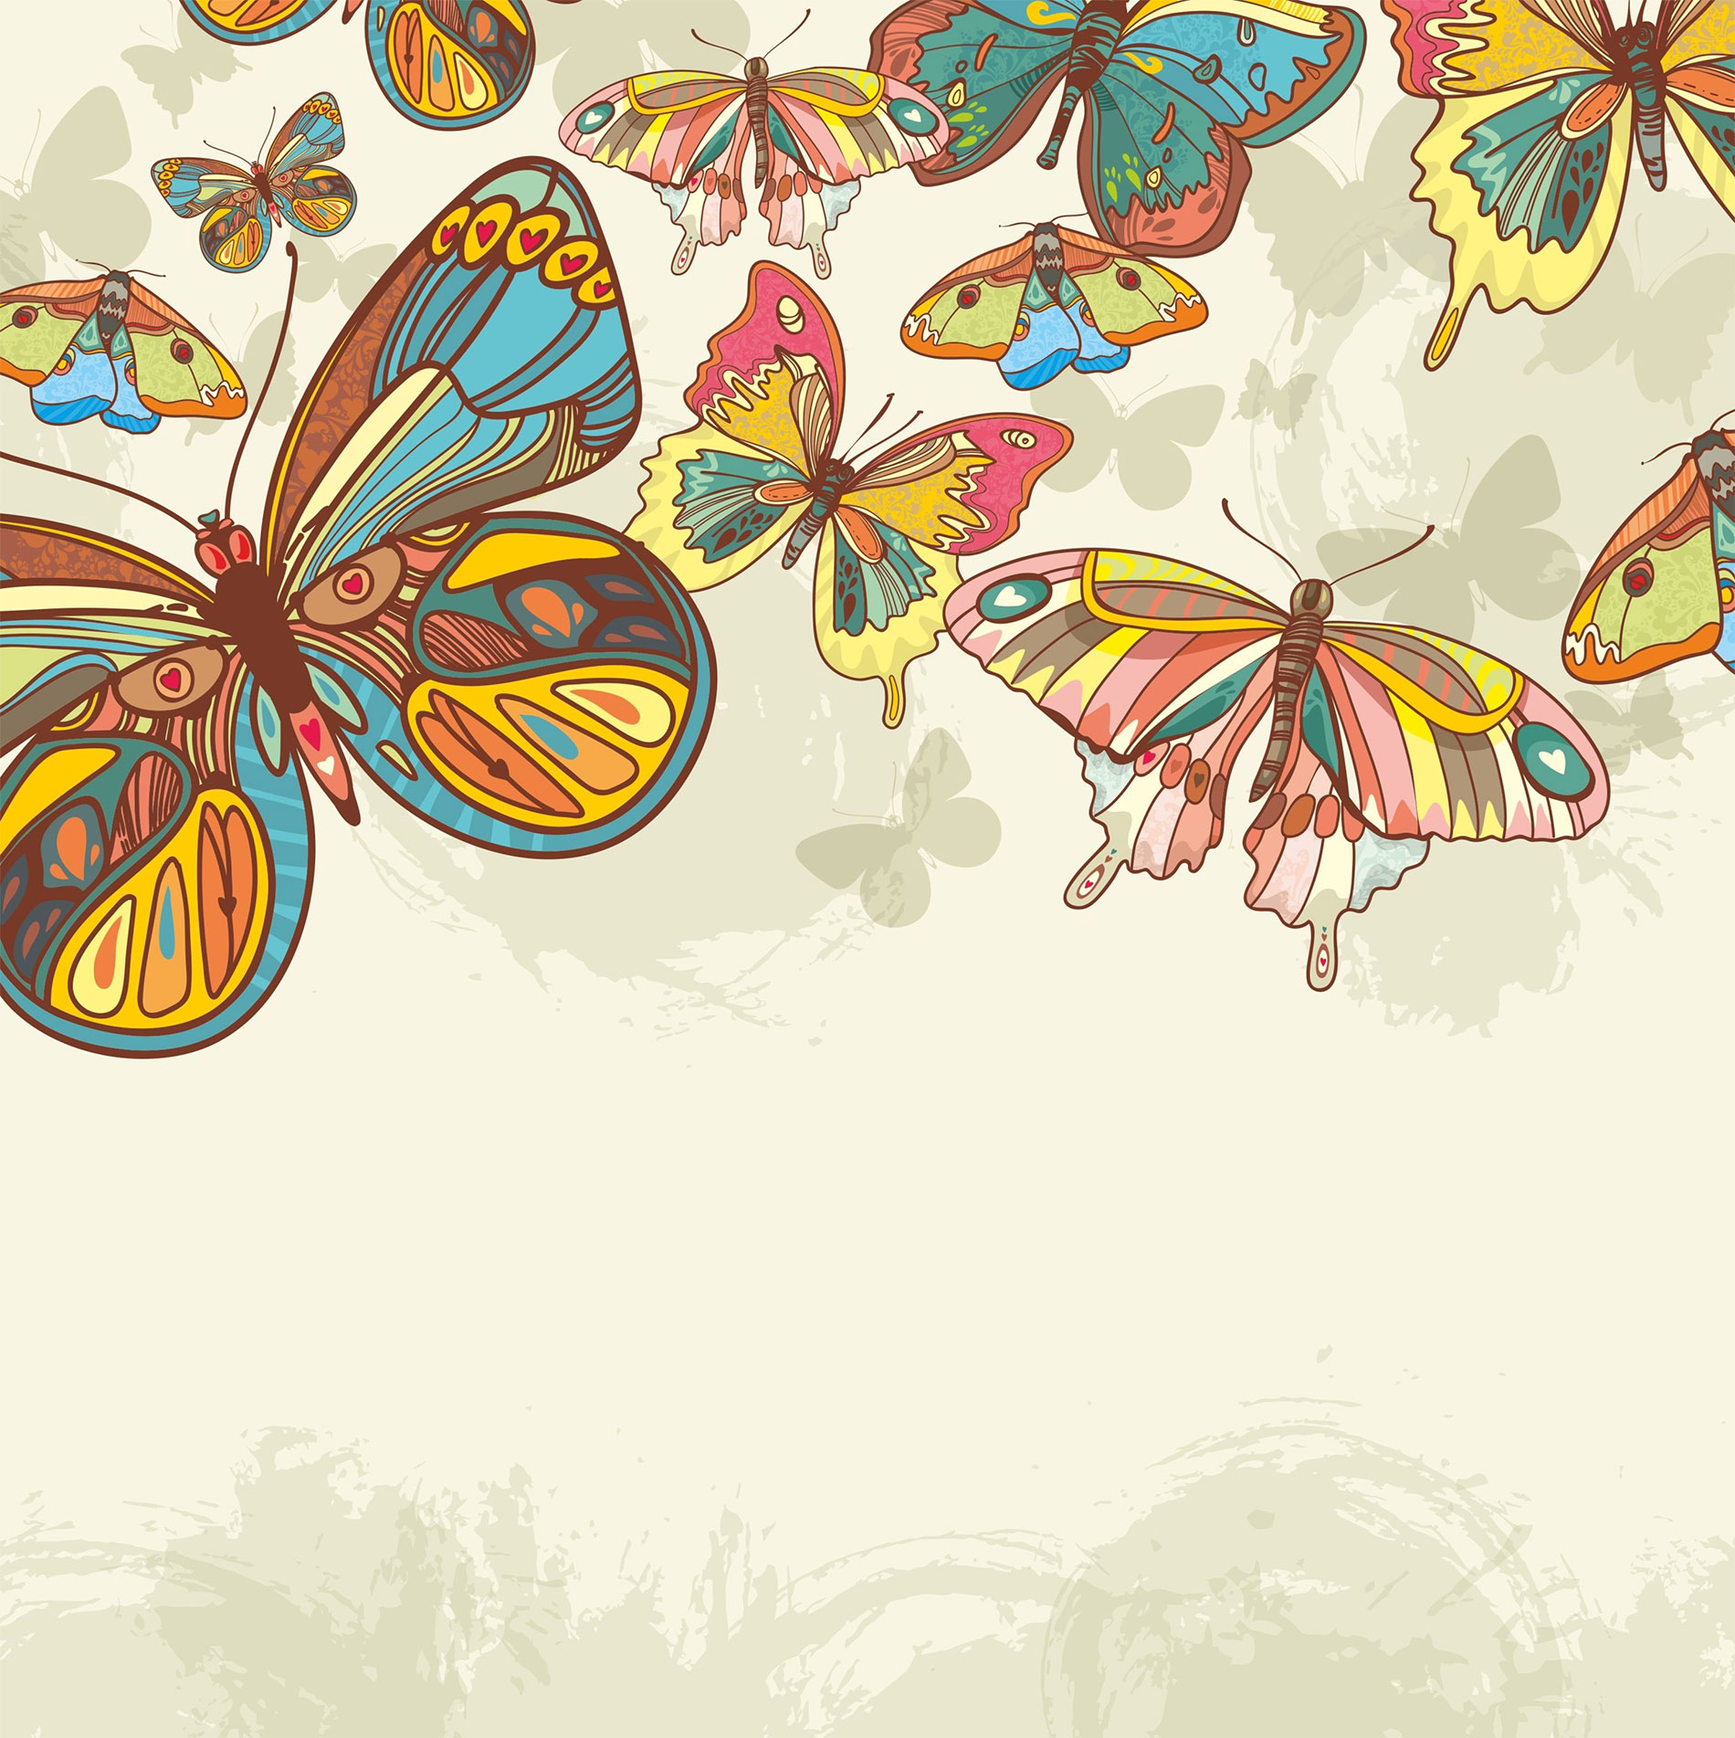
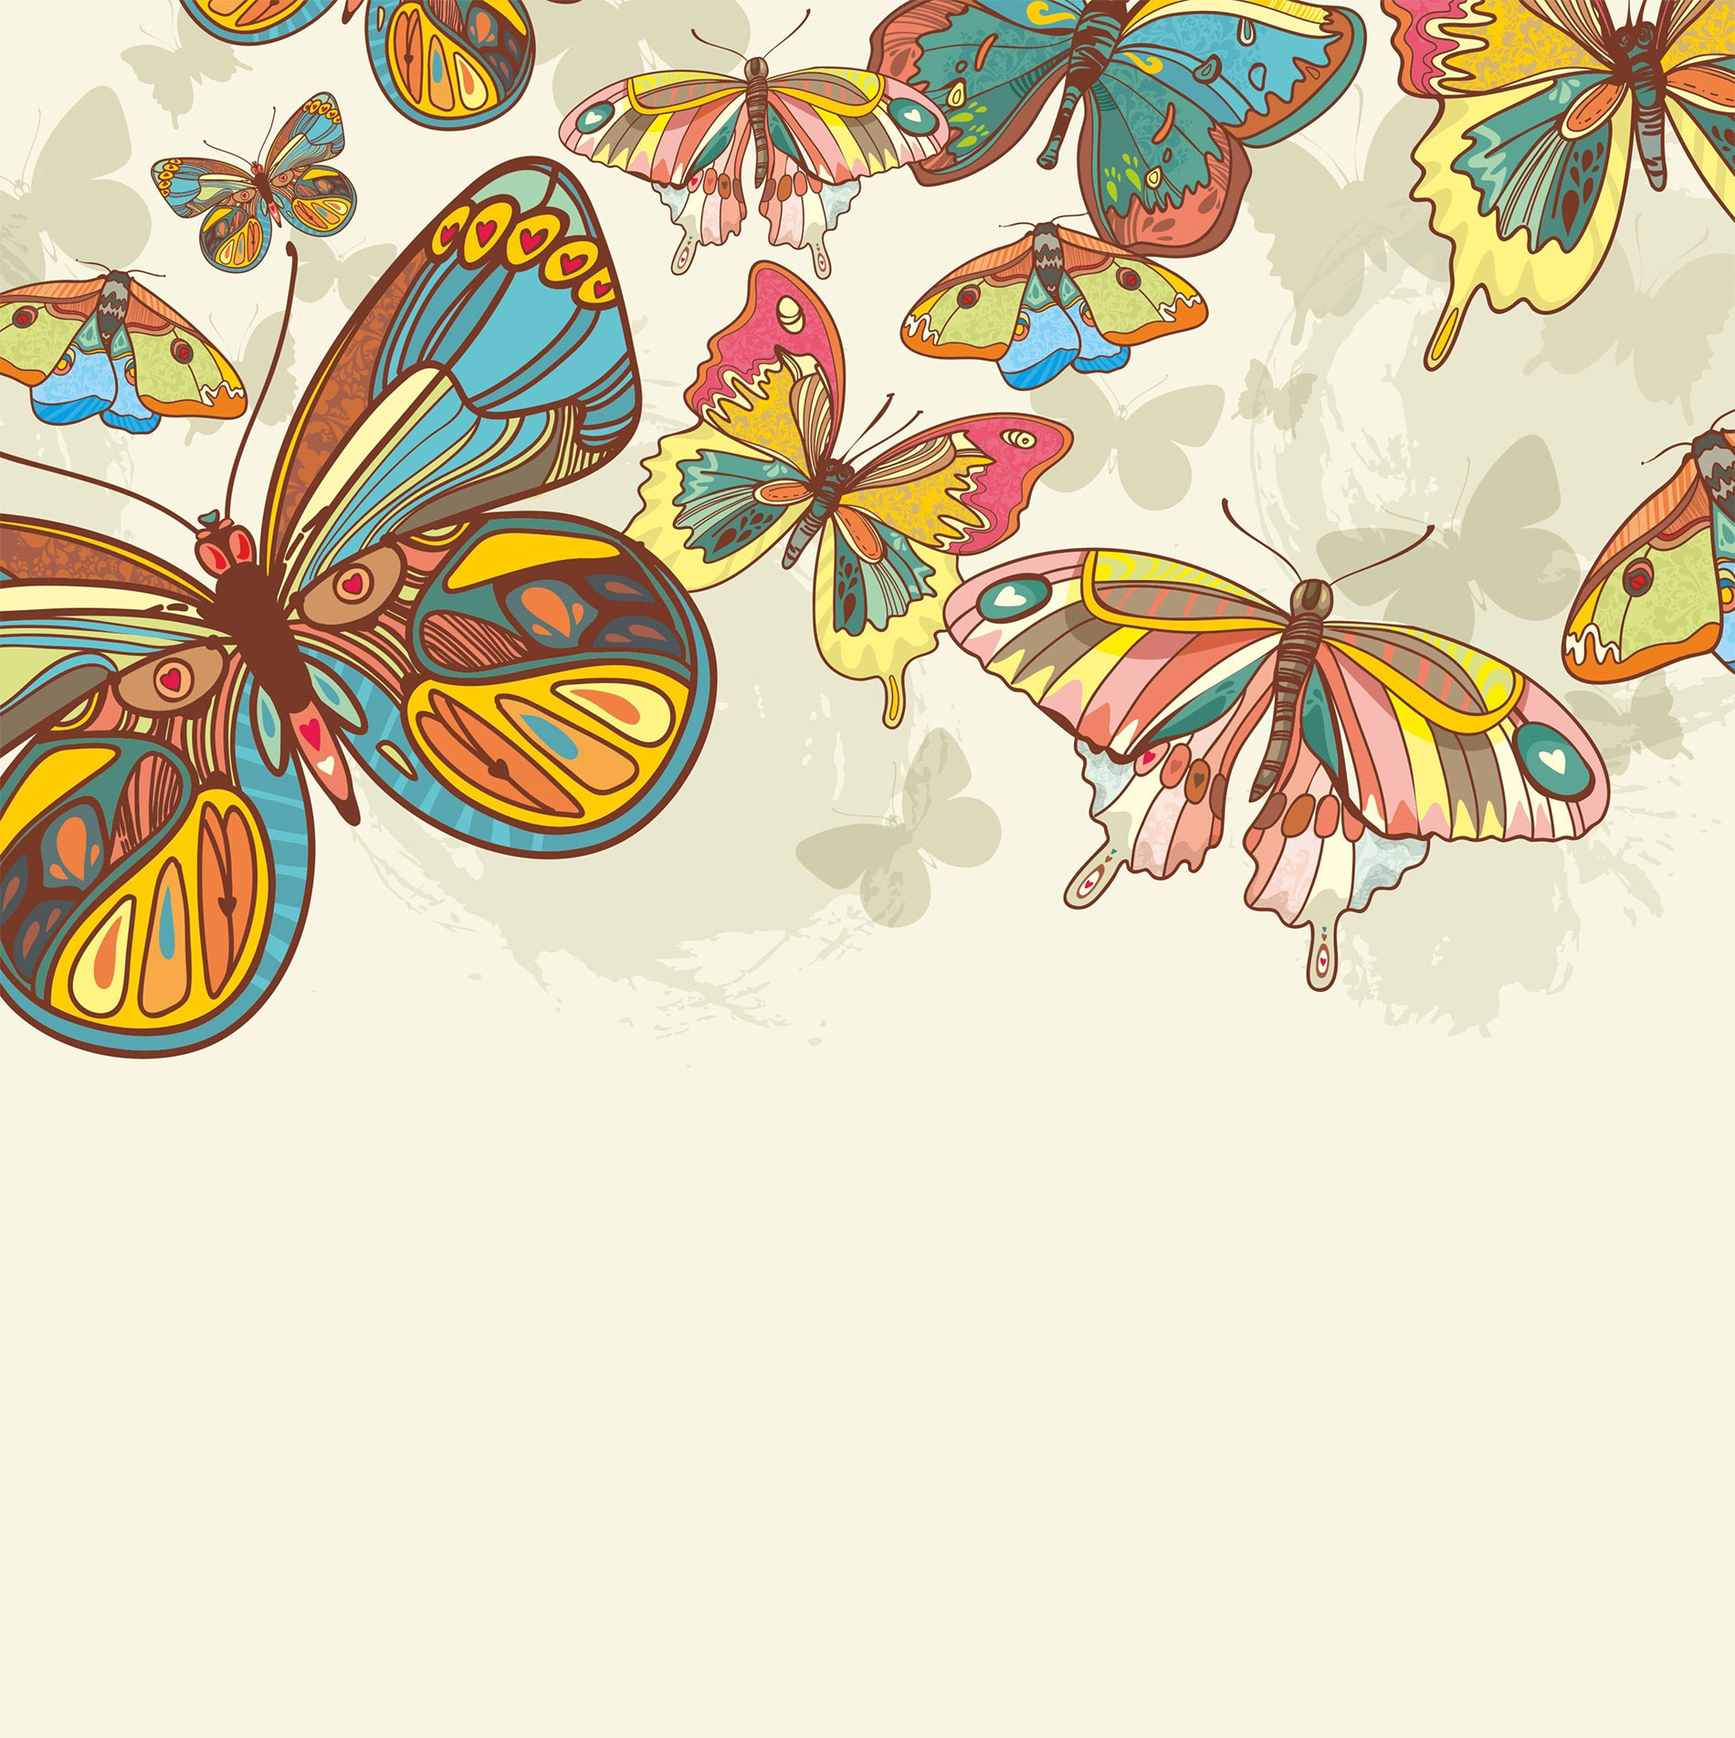
add actu

Changed region(s): [[0.59, 0.8681, 0.9316, 1.0], [0.0932, 0.8681, 0.3105, 1.0]]

diff --git a/css/screen.min.css b/css/screen.min.css
@@ -1,4 +1,4 @@
-/*! normalize.css v3.0.3 | MIT License | github.com/necolas/normalize.css */html{font-family:sans-serif;-ms-text-size-adjust:100%;-webkit-text-size-adjust:100%}body{margin:0}article,aside,details,figcaption,figure,footer,header,hgroup,main,menu,nav,section,summary{display:block}audio,canvas,progress,video{display:inline-block;vertical-align:baseline}audio:not([controls]){display:none;height:0}[hidden],template{display:none}a{background-color:transparent}a:active,a:hover{outline:0}abbr[title]{border-bottom:1px dotted}b,strong{font-weight:700}dfn{font-style:italic}h1{font-size:2em;margin:.67em 0}mark{background:#ff0;color:#000}small{font-size:80%}sub,sup{font-size:75%;line-height:0;position:relative;vertical-align:baseline}sup{top:-.5em}sub{bottom:-.25em}img{border:0}svg:not(:root){overflow:hidden}figure{margin:1em 40px}hr{box-sizing:content-box;height:0}pre{overflow:auto}code,kbd,pre,samp{font-family:monospace,monospace;font-size:1em}button,input,optgroup,select,textarea{color:inherit;font:inherit;margin:0}button{overflow:visible}button,select{text-transform:none}button,html input[type=button],input[type=reset],input[type=submit]{-webkit-appearance:button;cursor:pointer}button[disabled],html input[disabled]{cursor:default}button::-moz-focus-inner,input::-moz-focus-inner{border:0;padding:0}input{line-height:normal}input[type=checkbox],input[type=radio]{box-sizing:border-box;padding:0}input[type=number]::-webkit-inner-spin-button,input[type=number]::-webkit-outer-spin-button{height:auto}input[type=search]{-webkit-appearance:textfield;box-sizing:content-box}input[type=search]::-webkit-search-cancel-button,input[type=search]::-webkit-search-decoration{-webkit-appearance:none}fieldset{border:1px solid silver;margin:0 2px;padding:.35em .625em .75em}legend{border:0;padding:0}textarea{overflow:auto}optgroup{font-weight:700}table{border-collapse:collapse;border-spacing:0}td,th{padding:0}.clearfix:after,.clearfix:before,.container:after,.container:before{content:" ";display:table}.clearfix:after,.container:after{clear:both}.uppercase{text-transform:uppercase}.lowercase{text-transform:lowercase}.capitalize{text-transform:lowercase}.capitalize:first-letter{text-transform:uppercase}.alignLeft{text-align:left}.alignRight{text-align:right}.alignCenter{text-align:center}.floatLeft{float:left}.floatRight{float:right}.fwBold{font-weight:700}.fwLight{font-weight:300}.fwNormal{font-weight:400}.fsItalic{font-style:italic}.fsNormal{font-style:normal}.img-responsive{max-width:100%;height:auto}.is-hidden{display:none!important}*{box-sizing:border-box}::after,::before{box-sizing:border-box}html{color:#222;font-size:1em;line-height:1.4}::-moz-selection{background:#b3d4fc;text-shadow:none}::selection{background:#b3d4fc;text-shadow:none}hr{display:block;height:1px;border:0;border-top:1px solid #ccc;margin:1em 0;padding:0}audio,canvas,iframe,img,svg,video{vertical-align:middle}fieldset{border:0;margin:0;padding:0}textarea{resize:vertical}.browserupgrade{margin:.2em 0;background:#ccc;color:#000;padding:.2em 0}body{margin:0;padding:0;font-size:15px;line-height:1.33333333;font-family:Arial,sans-serif;color:#000}body{font-family:Lora,serif;background:url(../img/bg-body.jpg) no-repeat;background-size:cover;background-position:center 0;color:#783927}a{color:#e3194b}a:hover{text-decoration:none}.wrap{width:100%;max-width:1024px;margin:0 auto 0 auto;background:rgba(248,245,226,.9);padding:30px}.container{background:rgba(248,245,226,.9)}.title-1{margin:0;font-weight:400;font-size:40px;text-align:center;color:#e3194b}.title-1 span{display:block;font-size:24px;font-style:italic}blockquote{margin:20px 0 20px 0;display:inline-block;font-size:22px;font-style:italic;color:#e3194b;text-align:right}blockquote span{display:block;font-size:16px}.title-2{text-align:center;font-weight:400}.content{font-size:18px}.content a{font-size:16px}#map{height:400px;width:100%}#map2{height:400px;width:100%}.contact{width:40%;float:left}.align-center{text-align:center}.ulPapillon{margin:0;padding:0;list-style:none}.ulPapillon li{margin-bottom:20px;position:relative;padding-left:25px}.ulPapillon li:before{content:'';display:block;height:20px;width:20px;background:url(../img/papillon.svg) no-repeat;position:absolute;top:0;left:0}/*!
+/*! normalize.css v3.0.3 | MIT License | github.com/necolas/normalize.css */html{font-family:sans-serif;-ms-text-size-adjust:100%;-webkit-text-size-adjust:100%}body{margin:0}article,aside,details,figcaption,figure,footer,header,hgroup,main,menu,nav,section,summary{display:block}audio,canvas,progress,video{display:inline-block;vertical-align:baseline}audio:not([controls]){display:none;height:0}[hidden],template{display:none}a{background-color:transparent}a:active,a:hover{outline:0}abbr[title]{border-bottom:1px dotted}b,strong{font-weight:700}dfn{font-style:italic}h1{font-size:2em;margin:.67em 0}mark{background:#ff0;color:#000}small{font-size:80%}sub,sup{font-size:75%;line-height:0;position:relative;vertical-align:baseline}sup{top:-.5em}sub{bottom:-.25em}img{border:0}svg:not(:root){overflow:hidden}figure{margin:1em 40px}hr{box-sizing:content-box;height:0}pre{overflow:auto}code,kbd,pre,samp{font-family:monospace,monospace;font-size:1em}button,input,optgroup,select,textarea{color:inherit;font:inherit;margin:0}button{overflow:visible}button,select{text-transform:none}button,html input[type=button],input[type=reset],input[type=submit]{-webkit-appearance:button;cursor:pointer}button[disabled],html input[disabled]{cursor:default}button::-moz-focus-inner,input::-moz-focus-inner{border:0;padding:0}input{line-height:normal}input[type=checkbox],input[type=radio]{box-sizing:border-box;padding:0}input[type=number]::-webkit-inner-spin-button,input[type=number]::-webkit-outer-spin-button{height:auto}input[type=search]{-webkit-appearance:textfield;box-sizing:content-box}input[type=search]::-webkit-search-cancel-button,input[type=search]::-webkit-search-decoration{-webkit-appearance:none}fieldset{border:1px solid silver;margin:0 2px;padding:.35em .625em .75em}legend{border:0;padding:0}textarea{overflow:auto}optgroup{font-weight:700}table{border-collapse:collapse;border-spacing:0}td,th{padding:0}.clearfix:after,.clearfix:before,.container:after,.container:before{content:" ";display:table}.clearfix:after,.container:after{clear:both}.uppercase{text-transform:uppercase}.lowercase{text-transform:lowercase}.capitalize{text-transform:lowercase}.capitalize:first-letter{text-transform:uppercase}.alignLeft{text-align:left}.alignRight{text-align:right}.alignCenter{text-align:center}.floatLeft{float:left}.floatRight{float:right}.fwBold{font-weight:700}.fwLight{font-weight:300}.fwNormal{font-weight:400}.fsItalic{font-style:italic}.fsNormal{font-style:normal}.img-responsive{max-width:100%;height:auto}.is-hidden{display:none!important}*{box-sizing:border-box}::after,::before{box-sizing:border-box}html{color:#222;font-size:1em;line-height:1.4}::-moz-selection{background:#b3d4fc;text-shadow:none}::selection{background:#b3d4fc;text-shadow:none}hr{display:block;height:1px;border:0;border-top:1px solid #ccc;margin:1em 0;padding:0}audio,canvas,iframe,img,svg,video{vertical-align:middle}fieldset{border:0;margin:0;padding:0}textarea{resize:vertical}.browserupgrade{margin:.2em 0;background:#ccc;color:#000;padding:.2em 0}body{margin:0;padding:0;font-size:15px;line-height:1.33333333;font-family:Arial,sans-serif;color:#000}body{font-family:Lora,serif;background:#f8f5e2 url(../img/bg-body.jpg) no-repeat;background-size:100%;background-position:center 0;color:#783927}a{color:#e3194b}a:hover{text-decoration:none}.wrap{width:100%;max-width:1024px;margin:0 auto 0 auto;background:rgba(248,245,226,.9);padding:30px}.container{background:rgba(248,245,226,.9)}.title-1{margin:0;font-weight:400;font-size:40px;text-align:center;color:#e3194b}.title-1 span{display:block;font-size:24px;font-style:italic}blockquote{margin:20px 0 20px 0;display:inline-block;font-size:22px;font-style:italic;color:#e3194b;text-align:right}blockquote span{display:block;font-size:16px}.title-2{text-align:center;font-weight:400}.content{font-size:18px}.content a{font-size:16px}#map{height:400px;width:100%}#map2{height:400px;width:100%}.contact{width:40%;float:left}.align-center{text-align:center}.ulPapillon{margin:0;padding:0;list-style:none}.ulPapillon li{margin-bottom:20px;position:relative;padding-left:25px}.ulPapillon li:before{content:'';display:block;height:20px;width:20px;background:url(../img/papillon.svg) no-repeat;position:absolute;top:0;left:0}/*!
  * Grid portion of Bootstrap under  namespace.
  * Classes:
  * container-fluid, row, col-X-Y (like regular B3)

diff --git a/js/front.min.js b/js/front.min.js
@@ -1,1 +1,1 @@
-$(function(){$.fn.examplePrototypeFunction=function(){$(this).each(function(){})}});var exampleSimpleFunction=function(){};$(function(){$.fn.examplePrototypeFunction=function(){$(this).each(function(){})}});var exampleSimpleFunction=function(){};$(function(){$.fn.examplePrototypeFunction=function(){$(this).each(function(){})}});var exampleSimpleFunction=function(){};$(function(){$.fn.examplePrototypeFunction=function(){$(this).each(function(){})}});var exampleSimpleFunction=function(){};$(function(){$.fn.examplePrototypeFunction=function(){$(this).each(function(){})}});var exampleSimpleFunction=function(){};!function(a){"use strict"}(jQuery);
+$(function(){$.fn.examplePrototypeFunction=function(){$(this).each(function(){})}});var exampleSimpleFunction=function(){};$(function(){$.fn.examplePrototypeFunction=function(){$(this).each(function(){})}});var exampleSimpleFunction=function(){};$(function(){$.fn.examplePrototypeFunction=function(){$(this).each(function(){})}});var exampleSimpleFunction=function(){};$(function(){$.fn.examplePrototypeFunction=function(){$(this).each(function(){})}});var exampleSimpleFunction=function(){};$(function(){$.fn.examplePrototypeFunction=function(){$(this).each(function(){})}});var exampleSimpleFunction=function(){};$(function(){$.fn.examplePrototypeFunction=function(){$(this).each(function(){})}});var exampleSimpleFunction=function(){};!function(a){"use strict"}(jQuery);

diff --git a/less/layout.less b/less/layout.less
@@ -16,9 +16,8 @@ body {
 
 body {
     font-family: 'Lora', serif;
-    background: url(../img/bg-body.jpg) no-repeat;
-    -webkit-background-size: cover;
-    background-size: cover;
+    background: rgba(248, 245, 226, 1) url(../img/bg-body.jpg) no-repeat;
+    background-size: 100%;
     background-position: center 0;
     color: @color-brown-nut;
     //-webkit-font-smoothing: antialiased;

diff --git a/js/front.js b/js/front.js
@@ -38,6 +38,14 @@ $(function() {
 
 var exampleSimpleFunction = function() {};
 
+$(function() {
+    $.fn.examplePrototypeFunction = function() {
+        $(this).each(function() {});
+    };
+});
+
+var exampleSimpleFunction = function() {};
+
 !function($) {
     "use strict";
 }(jQuery);

diff --git a/css/screen.css b/css/screen.css
@@ -556,8 +556,8 @@ body {
 }
 body {
   font-family: 'Lora', serif;
-  background: url(../img/bg-body.jpg) no-repeat;
-  background-size: cover;
+  background: #f8f5e2 url(../img/bg-body.jpg) no-repeat;
+  background-size: 100%;
   background-position: center 0;
   color: #783927;
 }

diff --git a/actualites.php b/actualites.php
@@ -26,8 +26,35 @@
                                 <img src="img/tmp/actualites/100216-manger/conf-nutrition-consciente.jpg" alt="Conference Manger en pleine conscience fevrier 2016">
                             </div>
 
+                            <h2 id="femme">Ateliers <em>"La femme dans tous ses états"</em></h2>
+                            <strong>12 mars, 9 avril, 30 avril 2016</strong><br>
+                            <p><strong>Des états d’être, des états d’âme...</strong><br>
+                            Tout au long de son existence, une femme vit plusieurs états souvent accompagnés d’émotions qui viennent bousculer son équilibre. Ces ateliers sont proposés aux <strong>femmes qui souhaitent faire une pause</strong> afin de se donner un véritable moment, une attention particulière dans l’instant. Nous vous proposons de venir <strong>explorer ces différents états</strong> à travers des <strong>postures de yoga</strong> pour se connecter à son corps physique et aux <strong>élixirs floraux</strong> pour apaiser l’émotionnel.<br>
+                                <br>
+                                Samedi 12 mars de 8h30 à 12h00 : La femme et l’image du corps <br>
+                            Samedi 9 avril de 8h30 à 12h00 : La femme et les cycles menstruels <br>
+                            Samedi 30 avril de 8h30 à 12h00 : La femme et la ménopause <br><br>
+
+                            Tarif : 30€ pour 1 atelier ou 80€ pour les 3 ateliers <br>
+
+                            Sur inscription auprès d’Aurore : 06.77.97.04.37</p>
+
+                            <div class="alignCenter">
+                                <img src="img/tmp/actualites/femme/femme.jpg" alt="Atelier la femme dans tous ses etats mars avril 2016">
+                            </div>
+
                             <h2 id="detox">Stage <em>"Détox avant l'été"</em></h2>
-                            <strong>19 et 20 mai 2016</strong><br><br>
+                            <strong>19 et 20 mai 2016</strong><br>
+                            <p>
+                                Tout au long de l’année, notre corps cumule toxines et surcharges.
+                                Une <strong>cure détox</strong> aide à éliminer, à <strong>nettoyer et régénérer le corps et l’esprit</strong>.
+                                Encadrés par une <strong>équipe professionnelle</strong>, offrez-vous une pause détox, santé et randonnée pour bien aborder l’été.<br>
+
+                                Ce stage est proposé à toutes les personnes qui souhaitent s’accorder une <strong>pause bien-être</strong> et permettre ainsi à leur corps d’<strong>éliminer les toxines</strong> accumulées durant l’hiver.<br>
+
+                                Nous vous proposons durant ces deux jours, des <strong>randonnées en conscience</strong>, des ateliers sur la <strong>santé au naturel</strong> et une soirée thématique sur l’<strong>alimentation saine et vivante</strong>.
+
+                            </p>
                             <div class="alignCenter">
                                 <img src="img/tmp/actualites/190516-detox/stage-detox-19-mai-2016.jpg" alt="Stage detox mai 2016">
                             </div>

diff --git a/includes/inc-aside.php b/includes/inc-aside.php
@@ -6,8 +6,9 @@
     <div class="card card-actu">
         <h3 class="title3">Actualités</h3>
         <ul>
-            <li><strong>Conférence</strong> <br>10 février 2016<br><a href="actualites.php#manger"><em>"Manger en pleine conscience, à l'écoute de nos sens"</em></a></li>
-            <li><strong>Stage</strong> <br>19 et 20 mai 2016<br><a href="actualites.php#detox"><em>"Détox avant l'été"</em></a></li>
+            <li><strong>Conférence</strong> <br>10 février<br><a href="actualites.php#manger"><em>"Manger en pleine conscience, à l'écoute de nos sens"</em></a></li>
+            <li><strong>Ateliers</strong> <br>12 mars, 9 avril, 30 avril<br><a href="actualites.php#femme"><em>"La femme dans tous ses états"</em></a></li>
+            <li><strong>Stage</strong> <br>19 et 20 mai<br><a href="actualites.php#detox"><em>"Détox avant l'été"</em></a></li>
         </ul>
         <div class="cta">
             <a href="actualites.php" class="btn">Voir plus</a>

diff --git a/includes/inc-contact.php b/includes/inc-contact.php
@@ -10,8 +10,8 @@
             <small><a href="mailto:aurorebrochier@ouvrir-ses-ailes.fr">aurorebrochier@ouvrir-ses-ailes.fr</a></small>
         </div>
         <div class="col-md-4">
-            Chemin de la bourderie <br>
-            38134 St-Joseph-de-rivière <br>
+            26 rue Dode <br>
+            38500 Voiron <br>
             <a href="contact.php" class="btn">Voir la carte</a>
         </div>
         <div class="col-md-4">
